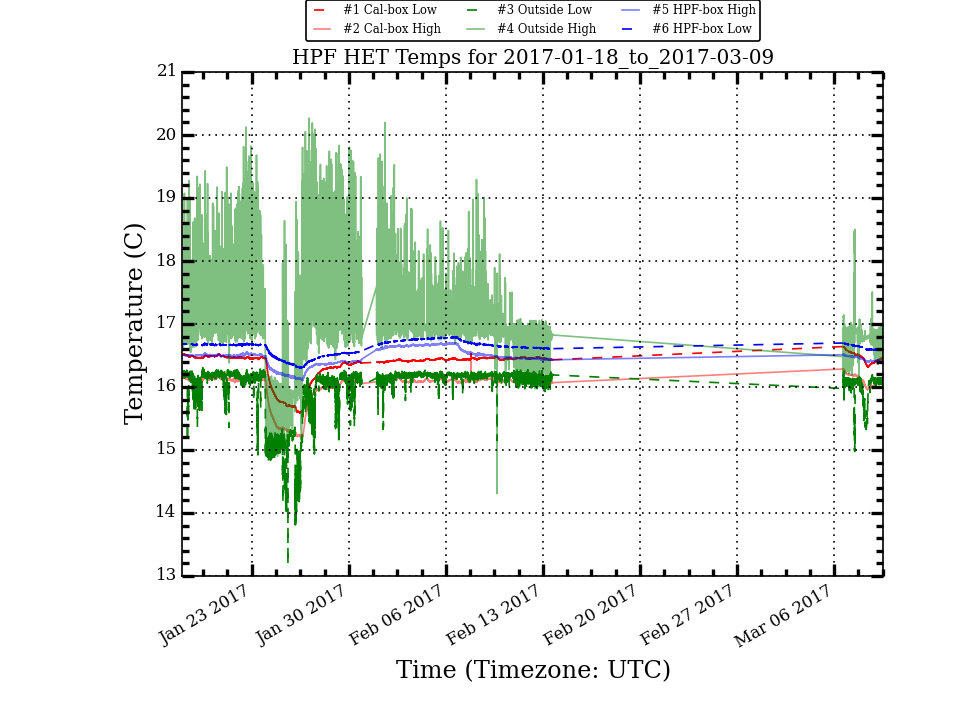
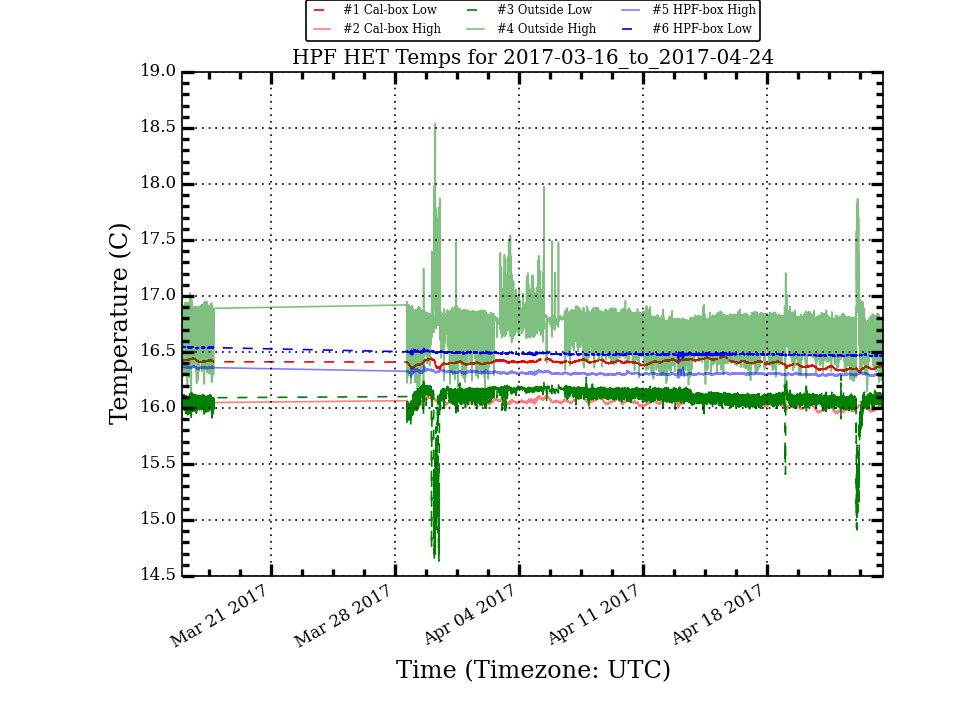
Update HPF Temp Plots

diff --git a/research/hpf_temps/plots/LakeShoreLogTotal_month_stats.html b/research/hpf_temps/plots/LakeShoreLogTotal_month_stats.html
@@ -10,56 +10,56 @@
  </TR>
  <TR>
   <TD>Cal_Low</TD>
-  <TD>16.361</TD>
-  <TD>0.217</TD>
-  <TD>16.439</TD>
-  <TD>16.642</TD>
-  <TD>15.593</TD>
-  <TD>1.049</TD>
+  <TD>16.403</TD>
+  <TD>0.027</TD>
+  <TD>16.409</TD>
+  <TD>16.459</TD>
+  <TD>16.322</TD>
+  <TD>0.137</TD>
  </TR>
  <TR>
   <TD>Cal_High</TD>
-  <TD>16.023</TD>
-  <TD>0.231</TD>
-  <TD>16.104</TD>
-  <TD>16.405</TD>
-  <TD>15.207</TD>
-  <TD>1.198</TD>
+  <TD>16.049</TD>
+  <TD>0.032</TD>
+  <TD>16.055</TD>
+  <TD>16.139</TD>
+  <TD>15.940</TD>
+  <TD>0.199</TD>
  </TR>
  <TR>
   <TD>Out_Low</TD>
-  <TD>16.006</TD>
-  <TD>0.367</TD>
-  <TD>16.147</TD>
-  <TD>16.323</TD>
-  <TD>13.168</TD>
-  <TD>3.155</TD>
+  <TD>16.098</TD>
+  <TD>0.126</TD>
+  <TD>16.112</TD>
+  <TD>16.291</TD>
+  <TD>14.629</TD>
+  <TD>1.662</TD>
  </TR>
  <TR>
   <TD>Out_High</TD>
-  <TD>17.044</TD>
-  <TD>0.567</TD>
-  <TD>16.964</TD>
-  <TD>20.269</TD>
-  <TD>14.307</TD>
-  <TD>5.962</TD>
+  <TD>16.757</TD>
+  <TD>0.129</TD>
+  <TD>16.777</TD>
+  <TD>18.539</TD>
+  <TD>15.982</TD>
+  <TD>2.557</TD>
  </TR>
  <TR>
   <TD>HPF_High</TD>
-  <TD>16.478</TD>
-  <TD>0.132</TD>
-  <TD>16.491</TD>
-  <TD>16.702</TD>
-  <TD>16.101</TD>
-  <TD>0.601</TD>
+  <TD>16.312</TD>
+  <TD>0.017</TD>
+  <TD>16.308</TD>
+  <TD>16.381</TD>
+  <TD>16.267</TD>
+  <TD>0.114</TD>
  </TR>
  <TR>
   <TD>HPF_Low</TD>
-  <TD>16.629</TD>
-  <TD>0.111</TD>
-  <TD>16.664</TD>
-  <TD>16.804</TD>
-  <TD>16.301</TD>
-  <TD>0.503</TD>
+  <TD>16.486</TD>
+  <TD>0.017</TD>
+  <TD>16.481</TD>
+  <TD>16.548</TD>
+  <TD>16.416</TD>
+  <TD>0.132</TD>
  </TR>
 </TABLE>

diff --git a/research/hpf_temps/plots/LakeShoreLogTotal_week_stats.html b/research/hpf_temps/plots/LakeShoreLogTotal_week_stats.html
@@ -10,56 +10,56 @@
  </TR>
  <TR>
   <TD>Cal_Low</TD>
-  <TD>16.464</TD>
-  <TD>0.062</TD>
-  <TD>16.458</TD>
-  <TD>16.642</TD>
-  <TD>16.321</TD>
-  <TD>0.321</TD>
+  <TD>16.367</TD>
+  <TD>0.022</TD>
+  <TD>16.367</TD>
+  <TD>16.416</TD>
+  <TD>16.322</TD>
+  <TD>0.094</TD>
  </TR>
  <TR>
   <TD>Cal_High</TD>
-  <TD>16.113</TD>
-  <TD>0.064</TD>
-  <TD>16.115</TD>
-  <TD>16.287</TD>
-  <TD>15.959</TD>
-  <TD>0.328</TD>
+  <TD>16.005</TD>
+  <TD>0.026</TD>
+  <TD>16.005</TD>
+  <TD>16.069</TD>
+  <TD>15.953</TD>
+  <TD>0.116</TD>
  </TR>
  <TR>
   <TD>Out_Low</TD>
-  <TD>16.084</TD>
-  <TD>0.186</TD>
-  <TD>16.129</TD>
-  <TD>16.323</TD>
-  <TD>14.976</TD>
-  <TD>1.347</TD>
+  <TD>16.047</TD>
+  <TD>0.135</TD>
+  <TD>16.072</TD>
+  <TD>16.291</TD>
+  <TD>14.912</TD>
+  <TD>1.379</TD>
  </TR>
  <TR>
   <TD>Out_High</TD>
-  <TD>16.861</TD>
-  <TD>0.150</TD>
-  <TD>16.887</TD>
-  <TD>18.501</TD>
-  <TD>15.956</TD>
-  <TD>2.545</TD>
+  <TD>16.721</TD>
+  <TD>0.134</TD>
+  <TD>16.731</TD>
+  <TD>17.868</TD>
+  <TD>15.990</TD>
+  <TD>1.878</TD>
  </TR>
  <TR>
   <TD>HPF_High</TD>
-  <TD>16.448</TD>
-  <TD>0.026</TD>
-  <TD>16.448</TD>
-  <TD>16.518</TD>
-  <TD>16.396</TD>
-  <TD>0.122</TD>
+  <TD>16.300</TD>
+  <TD>0.006</TD>
+  <TD>16.300</TD>
+  <TD>16.318</TD>
+  <TD>16.285</TD>
+  <TD>0.033</TD>
  </TR>
  <TR>
   <TD>HPF_Low</TD>
-  <TD>16.626</TD>
-  <TD>0.027</TD>
-  <TD>16.624</TD>
-  <TD>16.702</TD>
-  <TD>16.584</TD>
-  <TD>0.118</TD>
+  <TD>16.472</TD>
+  <TD>0.005</TD>
+  <TD>16.472</TD>
+  <TD>16.485</TD>
+  <TD>16.460</TD>
+  <TD>0.025</TD>
  </TR>
 </TABLE>
